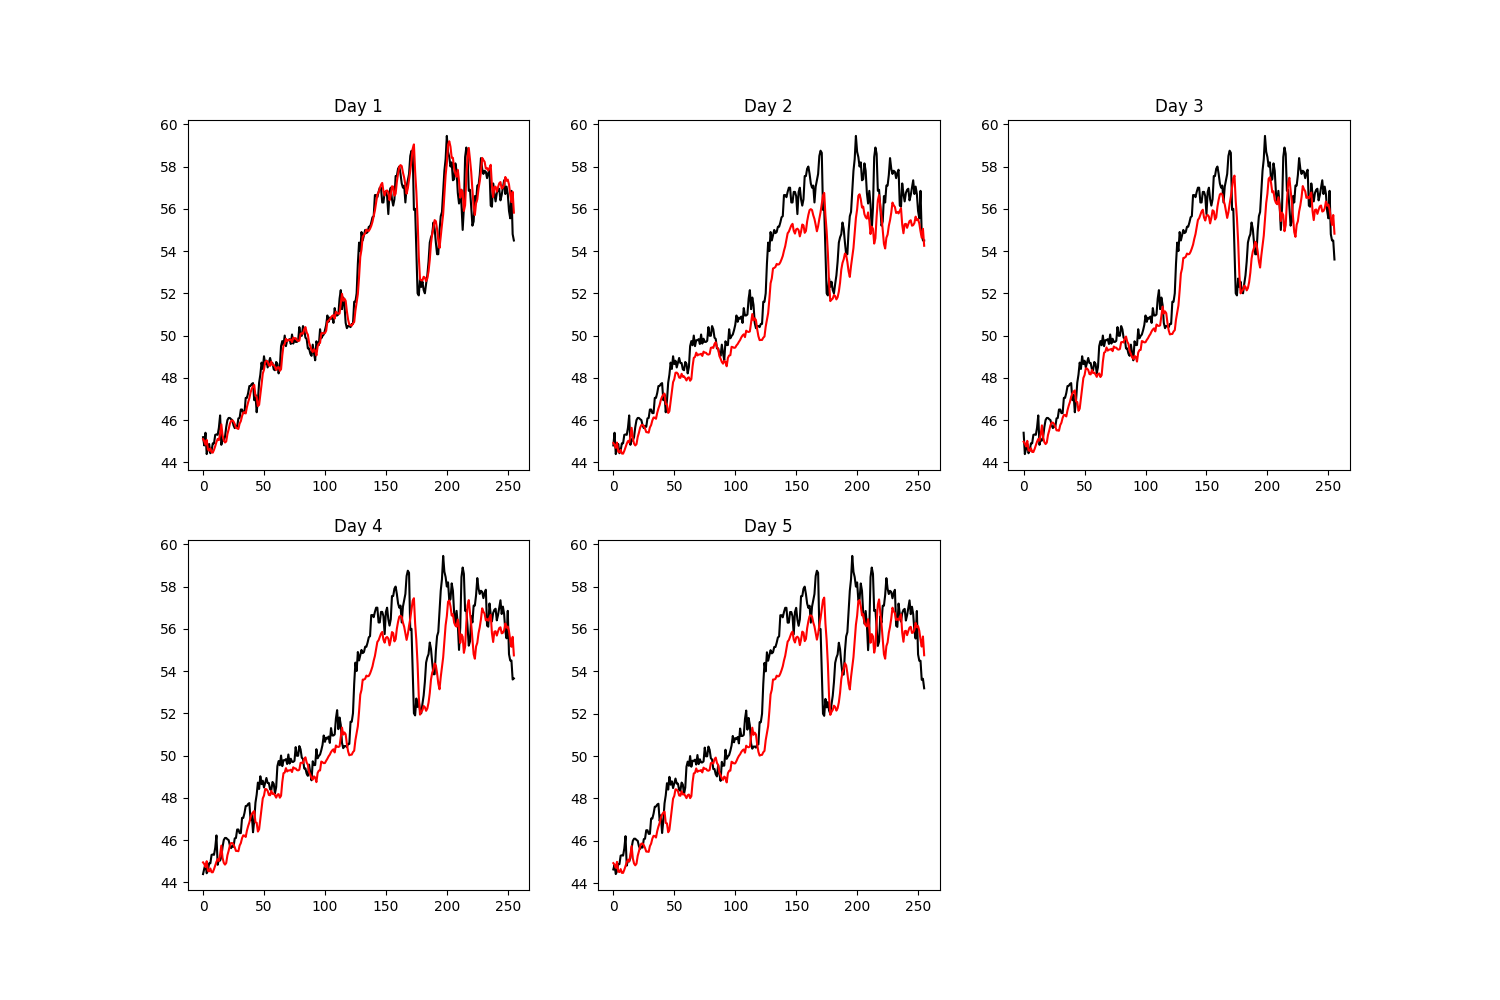
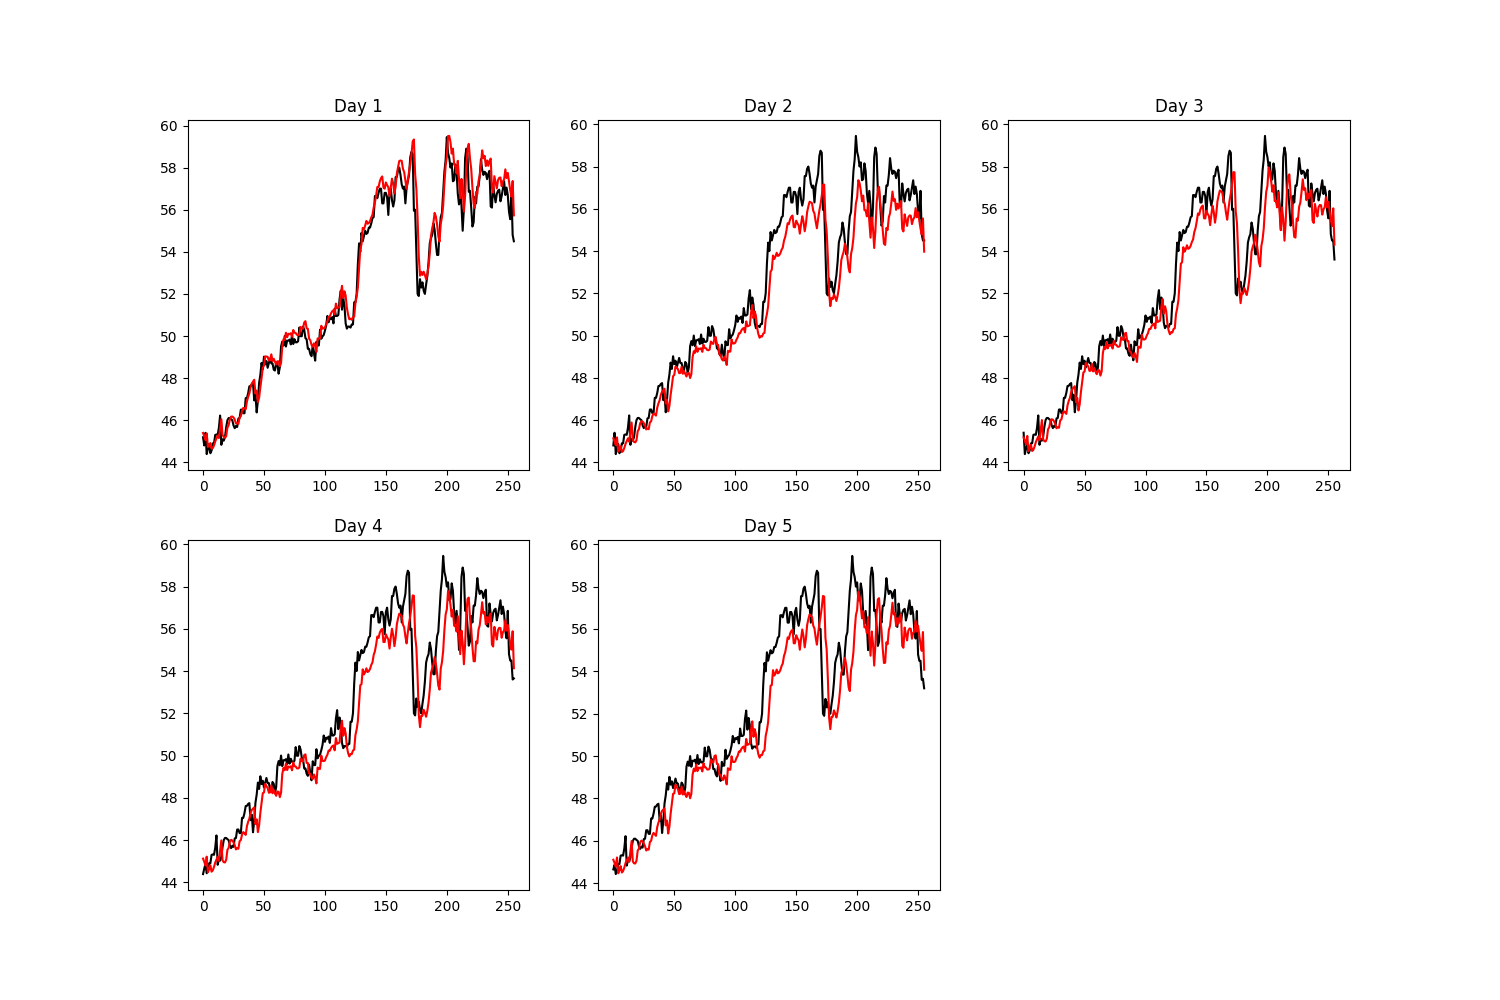
Maintain: feature add open、high、low, lstm many-to-many

diff --git a/lstm_mtm.py b/lstm_mtm.py
@@ -16,7 +16,6 @@ from sklearn.preprocessing import MinMaxScaler
 
 from utils import *
 
-
 def load_data(data, time_step=20, after_day=1, validate_percent=0.67):
     seq_length = time_step + after_day
     result = []
@@ -37,22 +36,20 @@ def load_data(data, time_step=20, after_day=1, validate_percent=0.67):
 
     return [x_train, y_train, x_validate, y_validate]
 
-
 def base_model(feature_len=1, after_day=1, input_shape=(20, 1)):
     model = Sequential()
 
     model.add(LSTM(units=100, return_sequences=False, input_shape=input_shape))
-    model.add(Dropout(0.3))
+    #model.add(LSTM(units=100, return_sequences=False, input_shape=input_shape))
 
     # one to many
     model.add(RepeatVector(after_day))
     model.add(LSTM(200, return_sequences=True))
-    model.add(Dropout(0.3))
+    #model.add(LSTM(50, return_sequences=True))
 
     model.add(TimeDistributed(Dense(units=feature_len, activation='linear')))
 
     return model
-
 
 if __name__ == '__main__':
     class_list = ['50', '51', '52', '53', '54', '55', '56', '57', '58',
@@ -70,20 +67,20 @@ if __name__ == '__main__':
     model_name = sys.argv[0].replace(".py", "")
 
     for index in range(len(class_list)):
-        _class = class_list[2]
+        _class = class_list[index]
         print('******************************************* class 00{} *******************************************'.format(_class))
 
         # read data from csv, return data: (Samples, feature)
         data = file_processing(
             'data/20180427_process/20180427_{}.csv'.format(_class))
-
-        # test data: last 20 day data
-        x_test = data[-time_step:]
-        x_test = np.reshape(x_test, (1, x_test.shape[0], x_test.shape[1]))
+        feature_len = data.shape[1]
 
         # normalize data
-        feature_len = data.shape[1]
         data = normalize_data(data, scaler, feature_len)
+
+        # test data
+        x_test = data[-time_step:]
+        x_test = np.reshape(x_test, (1, x_test.shape[0], x_test.shape[1]))
 
         # get train and validate data
         x_train, y_train, x_validate, y_validate = load_data(
@@ -97,7 +94,7 @@ if __name__ == '__main__':
         model = base_model(feature_len, after_day, input_shape)
         model.compile(loss='mse', optimizer='adam')
         model.summary()
-        plot_model_architecture(model, model_name=model_name)
+        #plot_model_architecture(model, model_name=model_name)
 
         # Add Tensorboard
         #tbCallBack = keras.callbacks.TensorBoard(log_dir='./Graph', histogram_freq=0, write_graph=True, write_images=True)
@@ -130,15 +127,17 @@ if __name__ == '__main__':
         y_validate = inverse_normalize_data(y_validate, scaler)
         test_predict = inverse_normalize_data(test_predict, scaler)
 
+        '''
         print('-' * 100)
         print("last y_validate: \n", y_validate[-1])
         print("last y_predict: \n", validate_predict[-1])
         print("test: \n", test_predict)
+        '''
 
         # 3 or 0: close 的位置, 0:5為五天
         ans = np.append(y_validate[-1, -1, 3], test_predict[-1, 0:5, 3])
         output.append(ans)
-        print("output: \n", output)
+        #print("output: \n", output)
 
         # plot predict situation (save in images/result)
         file_name = 'resule_' + model_name + '_00{}'.format(_class)
@@ -148,7 +147,6 @@ if __name__ == '__main__':
         file_name = 'loss_' + model_name + '_00{}'.format(_class)
         plot_loss(history, file_name)
 
-        break
-
-    #output = np.array(output)
-    #generate_output(output, model_name='model-3')
+    output = np.array(output)
+    print(output)
+    generate_output(output, model_name=model_name, class_list=class_list)

diff --git a/utils.py b/utils.py
@@ -16,7 +16,7 @@ def file_processing(file_path, encode=None):
         for row in rows:
             if n_row != 0:
                 #column -> 0: code, 1: date
-                for column in range(2, len(row)):
+                for column in range(2, len(row)-1):
                     data[n_row - 1].append(float(row[column].strip()))
 
             data.append([])
@@ -37,9 +37,8 @@ def inverse_normalize_data(data, scaler):
 
     return data
 
-def generate_output(output, model_name='test'):
-    class_list = ['50', '51', '52', '53', '54', '55', '56', '57', '58',
-                  '59', '6201', '6203', '6204', '6208', '690', '692', '701', '713']
+def generate_output(output, model_name, class_list):
+    class_list = class_list
     _output = []
 
     for i in range(len(output)):
@@ -56,7 +55,7 @@ def generate_output(output, model_name='test'):
                 _output[i].append(-1)
                 _output[i].append(output[i][j+1])
 
-    file_path = 'outputs/{}/output_3.csv'.format(model_name)
+    file_path = 'outputs/output_{}.csv'.format(model_name)
     if not os.path.exists(os.path.dirname(file_path)):
         try:
             os.makedirs(os.path.dirname(file_path))
